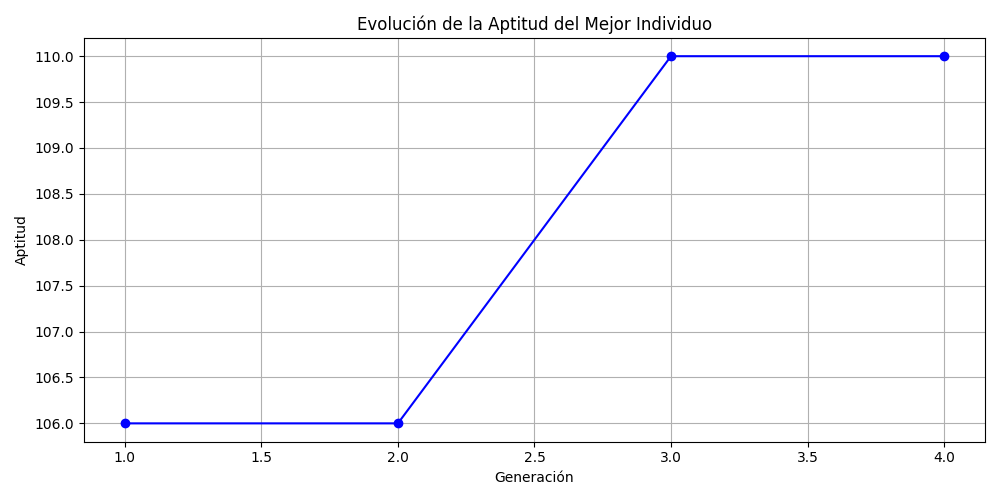
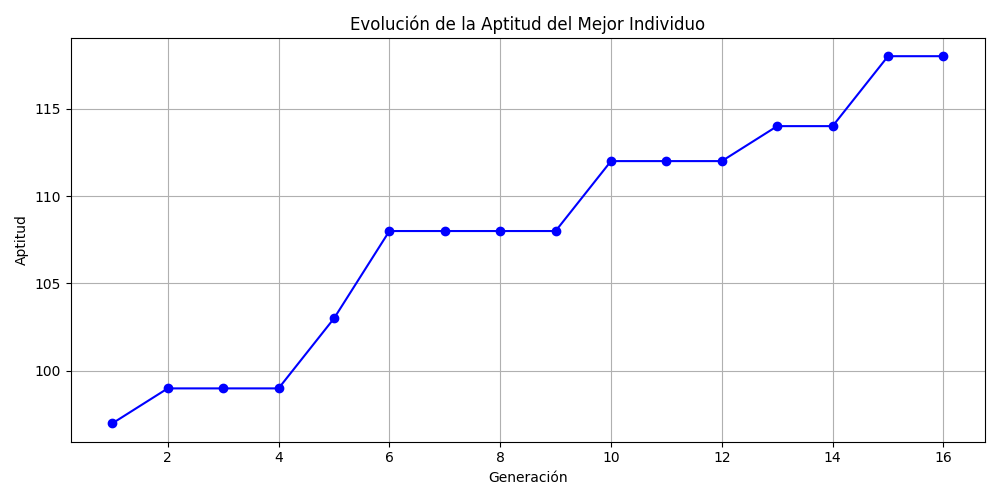
Funcioonando pero con ciertos deficits en impresiones de mensajes segun la opcion seleccionada en el algoritmo

diff --git a/main.py b/main.py
@@ -1,63 +1,109 @@
 
-from utils.cargador_csv import (
-    cargar_cursos,
-    cargar_docentes,
-    cargar_salones,
-    cargar_relacion_docente_curso
-)
-
-from utils.exportador_csv import exportar_horario_csv
-from utils.exportador_pdf import exportar_horario_pdf
-
-from poblacion import Poblacion
-
-from utils.grafica_aptitud import graficar_aptitudes
-
-# Lista de horarios posibles en bloques de 50 minutos
-HORARIOS_DISPONIBLES = [
-    "13:40", "14:30", "15:20", "16:10", "17:00",
-    "17:50", "18:40", "19:30", "20:20"
-]
-
 def main():
-    # Cargar datos base
+    from time import time
+    from utils.cargador_csv import (
+        cargar_cursos,
+        cargar_docentes,
+        cargar_salones,
+        cargar_relacion_docente_curso
+    )
+    from utils.exportador_csv import exportar_horario_csv
+    from utils.exportador_pdf import exportar_horario_pdf
+    from utils.grafica_aptitud import graficar_aptitudes
+    from poblacion import Poblacion
+
+    HORARIOS_DISPONIBLES = [
+        "13:40", "14:30", "15:20", "16:10", "17:00",
+        "17:50", "18:40", "19:30", "20:20"
+    ]
+
     cursos = cargar_cursos("data/curso.csv")
     docentes = cargar_docentes("data/docente.csv")
     salones = cargar_salones("data/salon.csv")
     relacion = cargar_relacion_docente_curso("data/docente_curso.csv")
-
-    # Inicializar población
+    
     poblacion = Poblacion(
         size=10,
         cursos=cursos,
         salones=salones,
         docentes=docentes,
         relacion_docente_curso=relacion,
-        horarios_disponibles=HORARIOS_DISPONIBLES
+        horarios_disponibles=HORARIOS_DISPONIBLES,
+        imprimir_diagnostico=0 # TRUE = Impresión por defecto
     )
+    
+    print("\nSeleccione el criterio de finalización:")
+    print("1. Ejecutar con configuración por defecto (aptitud 110 o hasta 50 generaciones)")
+    print("2. Ejecutar hasta alcanzar una aptitud específica")
+    print("3. Ejecutar hasta una cantidad máxima de generaciones")
 
-    print("=> Evolución del algoritmo genético:\n")
+    opcion = ""
+    while opcion not in {"1", "2", "3"}:
+        opcion = input("Opción (1/2/3): ").strip()
+        if opcion not in {"1", "2", "3"}:
+            print("Opción no válida. Por favor, elija una opción válida (1, 2 o 3).\n")
 
-    for gen in range(5):
+    # Parametros de configuracion para el ALgoritmo Genetico
+    aptitud_objetivo = 120
+    max_generaciones = 50
+
+    if opcion == "2":
+        while True:
+            entrada = input("Ingrese la aptitud objetivo deseada (1 - 120): ").strip()
+            try:
+                valor = float(entrada)
+                # Rango de aptitud definido
+                if 1 <= valor <= 120:
+                    aptitud_objetivo = valor
+                    break
+                else:
+                    print("El valor debe estar entre 1 y 120.")
+            except ValueError:
+                print("Ingrese un número válido.")
+
+    elif opcion == "3":
+        while True:
+            entrada = input("Ingrese el número máximo de generaciones (1 - 150): ").strip()
+            try:
+                valor = int(entrada)
+                # Rango de max. de generaciones definido
+                if 1 <= valor <= 150:
+                    max_generaciones = valor
+                    break
+                else:
+                    print("El valor debe estar entre 1 y 150.")
+            except ValueError:
+                print("Ingrese un número entero válido.")
+
+    # SE INICIALIZA LA POBLACIÓN CON CÁLCULO DE APTITUD
+    poblacion.inicializar()
+    
+    print("\n=> Evolución del algoritmo genético:\n")
+    start_time = time()
+
+    for gen in range(max_generaciones):
         poblacion.evolucionar(generaciones=1)
         mejor = poblacion.mejor_individuo
         print(f"Generación {gen + 1}: Mejor aptitud = {mejor.aptitud:.2f}")
+        if mejor.aptitud >= aptitud_objetivo:
+            print(f"\nAptitud objetivo alcanzada en la generación {gen + 1}")
+            break
+
+    end_time = time()
+    duracion = end_time - start_time
 
     print("\n=> Asignaciones del mejor individuo final:")
     for codigo, (salon, horario, docente) in poblacion.mejor_individuo.asignaciones.items():
         print(f"Curso {codigo} → Salón: {salon.nombre}, Hora: {horario}, Docente: {docente.nombre if docente else 'No asignado'}")
 
-    # Mejor Horario
     print("\n=> Exportaciones del Mejor Horario final")
-    # Exportar CSV
     exportar_horario_csv("exports/csv/mejor_horario.csv", poblacion.mejor_individuo, cursos)
-    # Exportar PDF
     exportar_horario_pdf("exports/pdf/mejor_horario.pdf", poblacion.mejor_individuo, cursos)
-    
-    # Evolucion de Aptitud
+
     print("\n=> Exportación de Grafica de Aptitud final")
-    # Exportar PNG
     graficar_aptitudes("exports/graficas/evolucion_aptitud.png", poblacion.mejores_aptitudes)
+
+    print(f"\nDuración total del algoritmo: {duracion:.2f} segundos")
 
 if __name__ == "__main__":
     main()

diff --git a/poblacion.py b/poblacion.py
@@ -3,21 +3,28 @@ from individuo import Individuo
 import random
 
 class Poblacion:
-    def __init__(self, size: int, cursos, salones, docentes, relacion_docente_curso, horarios_disponibles):
+    def inicializar(self):
+        for individuo in self.individuos:
+            individuo.calcular_aptitud()
+        self.mejor_individuo = max(self.individuos, key=lambda ind: ind.aptitud)
+        self.mejor_aptitud_historica = self.mejor_individuo.aptitud
+        
+    def __init__(self, size: int, cursos, salones, docentes, relacion_docente_curso, horarios_disponibles, imprimir_diagnostico=True):
         self.size = size
         self.cursos = cursos
         self.salones = salones
         self.docentes = docentes
         self.relacion_docente_curso = relacion_docente_curso
         self.horarios_disponibles = horarios_disponibles
+        self.imprimir_diagnostico = imprimir_diagnostico
         self.mejores_aptitudes: list[float] = []
         self.individuos: list[Individuo] = [
-            Individuo(cursos, salones, docentes, relacion_docente_curso, horarios_disponibles)
+            Individuo(cursos, salones, docentes, relacion_docente_curso, horarios_disponibles, imprimir_diagnostico)
             for _ in range(size)
         ]
-        self.mejor_individuo = max(self.individuos, key=lambda ind: ind.aptitud)
+        self.mejor_individuo = None
         self.sin_mejora_consecutiva = 0
-        self.mejor_aptitud_historica = self.mejor_individuo.aptitud
+        self.mejor_aptitud_historica = 0
 
     def seleccionar_padres(self, torneo_base=3) -> tuple[Individuo, Individuo]:
         torneo_size = torneo_base + min(3, self.sin_mejora_consecutiva)
@@ -49,7 +56,7 @@ class Poblacion:
             if self.sin_mejora_consecutiva >= 10:
                 cantidad_reemplazo = int(0.3 * self.size)
                 nuevos = [
-                    Individuo(self.cursos, self.salones, self.docentes, self.relacion_docente_curso, self.horarios_disponibles)
+                    Individuo(self.cursos, self.salones, self.docentes, self.relacion_docente_curso, self.horarios_disponibles, self.imprimir_diagnostico)
                     for _ in range(cantidad_reemplazo)
                 ]
                 nueva_generacion[-cantidad_reemplazo:] = nuevos
@@ -67,7 +74,7 @@ class Poblacion:
 
 
     def cruzar(self, padre1: Individuo, padre2: Individuo) -> Individuo:
-        hijo = Individuo(self.cursos, self.salones, self.docentes, self.relacion_docente_curso, self.horarios_disponibles)
+        hijo = Individuo(self.cursos, self.salones, self.docentes, self.relacion_docente_curso, self.horarios_disponibles, self.imprimir_diagnostico)
         hijo.asignaciones.clear()
 
         horario_docente = {}

diff --git a/individuo.py b/individuo.py
@@ -6,18 +6,19 @@ import random
 from collections import defaultdict
 
 class Individuo:
-    def __init__(self, cursos: list[Curso], salones: list[Salon], docentes: list[Docente], relacion_docente_curso: dict[str, list[str]], horarios_disponibles: list[str]):
+    def __init__(self, cursos: list[Curso], salones: list[Salon], docentes: list[Docente], relacion_docente_curso: dict[str, list[str]], horarios_disponibles: list[str], imprimir_diagnostico: bool):
         self.cursos = cursos
         self.salones = salones
         self.docentes = docentes
         self.relacion_docente_curso = relacion_docente_curso
         self.horarios_disponibles = horarios_disponibles
+        self.imprimir_diagnostico = imprimir_diagnostico
 
         self.asignaciones: dict[str, tuple[Salon, str, Docente]] = {}
         self.aptitud: float = 0.0
 
         self.generar_asignacion_prioritaria()
-        self.calcular_aptitud()
+        # self.calcular_aptitud()
 
     def generar_asignacion_prioritaria(self):
         ocupacion_docente = defaultdict(set)  # (registro_docente) -> set(horarios)
@@ -128,9 +129,10 @@ class Individuo:
 
         base = 100 - conflictos + bonificaciones
         self.aptitud = max(0.1, base)
-
-        print("\n[Diagnóstico del individuo]")
-        for k, v in conteo_conflictos.items():
-            print(f"- Conflictos {k.replace('_', ' ')}: {v}")
-        print(f"- Bonificaciones por continuidad: {bonificaciones}")
-        print(f"- Aptitud final: {self.aptitud}")
+        
+        if self.imprimir_diagnostico:
+            print("\n[Diagnóstico del individuo]")
+            for k, v in conteo_conflictos.items():
+                print(f"- Conflictos {k.replace('_', ' ')}: {v}")
+            print(f"- Bonificaciones por continuidad: {bonificaciones}")
+            print(f"- Aptitud final: {self.aptitud}")
